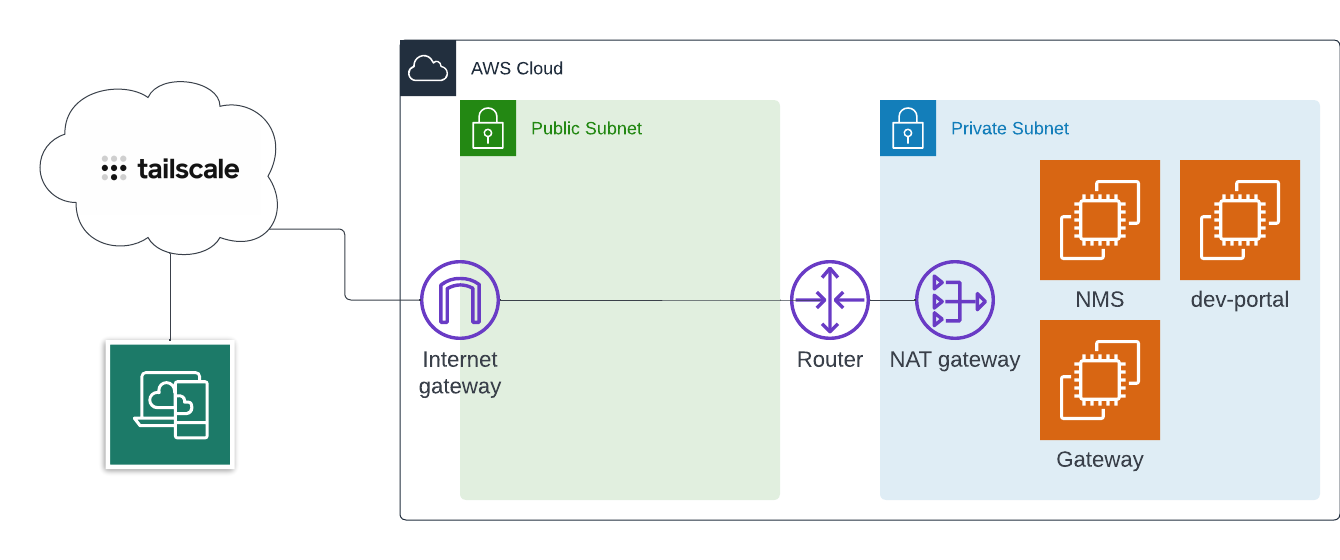
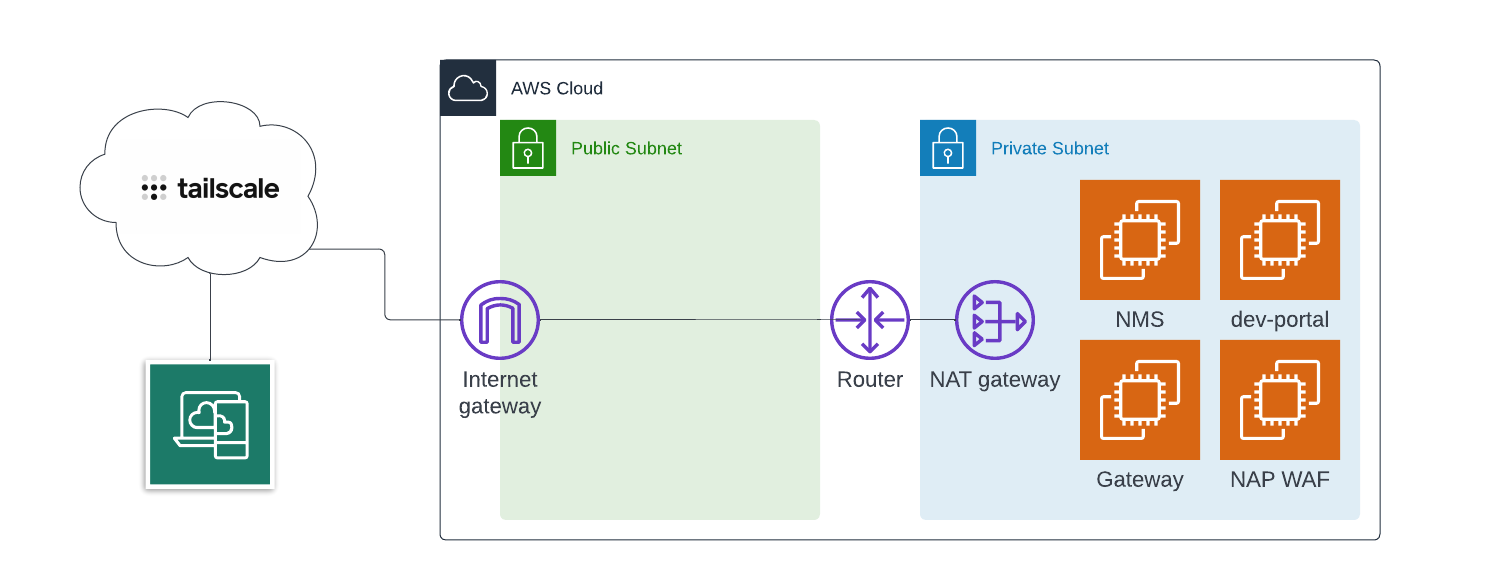
complete automated setup of nms, devportal and security monitoring

diff --git a/README.md b/README.md
@@ -8,72 +8,24 @@ This repository will build out a 4 server deployment in AWS allowing the user to
 
 ## Deployment
 
-> Note: You will need to save your *nginx-repo.crt* and *nginx-repo.key* in the base folder of this project.
+> Note: You will need to save your *nginx-repo.crt* and *nginx-repo.key* in the base folder of this project. Also, you will need to base64 encode your NMS license file and save it to *nms-license-b64.txt* in the base folder of this project.
+
+Create a `terraform.tfvars` file in the base folder of this project with this content updated as appropriate:
+
+```
+region = "<your aws region name>"
+owner_name = "<your owner name>"
+owner_email = "<your owner email address>"
+key_name = "<your existing AWS ssh key name>"
+tailscale_auth_key = "<your tailscale auth key>"
+nms_admin_password = "<your password for the NMS admin account>"
+```
 
 Run the following Terraform commands to deploy the environment:
 
 ```bash
 terraform init
-terraform apply -auto-approve
+terraform apply --auto-approve
 ```
 
-## Configure NMS
-
-Once the NMS server is up and running, you will need to reset the NMS admin password:
-
-```bash
-sudo htpasswd -c /etc/nms/nginx/.htpasswd admin
-```
-
-Next, you will need to login to the NMS UI and [add a license](https://docs.nginx.com/nginx-management-suite/admin-guides/getting-started/add-license/).
-
-## Configure Developer Portal
-
-Once the dev_portal server is up and running, you will need to [configure Postgres](https://docs.nginx.com/nginx-management-suite/admin-guides/installation/install-guide/#install-the-developer-portal):
-
-1. Configure PostgreSQL host-based authentication file:
-
-    ```bash
-    cat << EOF | sudo tee /etc/postgresql/12/main/pg_hba.conf
-
-    # TYPE DATABASE USER ADDRESS METHOD
-
-    local all postgres peer
-    local all all md5
-    # IPv4 local connections:
-    host all all 127.0.0.1/32 md5
-    # IPv6 local connections:
-    host all all ::1/128 md5
-    EOF
-    ```
-
-1. Restart PostgreSQL:
-
-    ```bash
-    sudo systemctl restart postgresql
-    ```
-
-1. Run the following commands:
-
-    ```bash
-    sudo -u postgres createdb devportal
-    sudo -u postgres psql -c "CREATE USER nginxdm WITH LOGIN PASSWORD 'nginxdm';"
-    sudo -u postgres psql -c "GRANT ALL PRIVILEGES ON DATABASE devportal TO nginxdm;"
-    ```
-
-1. Add NJS directives in the top-level main context the nginx.conf file located at `/etc/nginx/nginx.conf`:
-
-    ```bash
-    load_module modules/ngx_http_js_module.so;
-    load_module modules/ngx_stream_js_module.so;
-    ```
-
-1. Start the Dev Portal:
-
-    ```bash
-    sudo systemctl start nginx-devportal
-    ```
-
-## Configure NMS Security Monitoring
-
-See the [official documentation](https://docs.nginx.com/nginx-management-suite/admin-guides/installation/install-guide/#configure-data-plane-for-security-monitoring) to install and configure the data plane NGINX instance and agent to support monitoring.
+Once deployment is complete, you can browse to `https://<nms server tailscale public ip>`.
